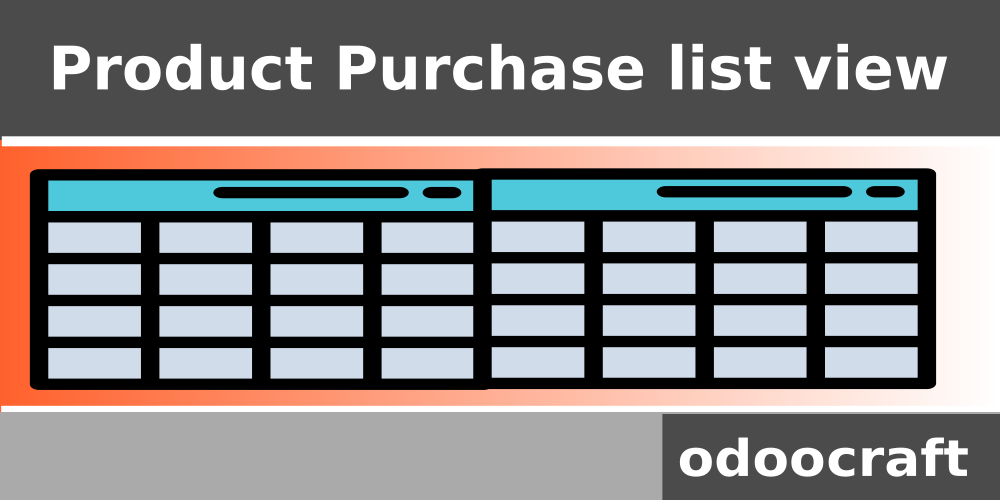
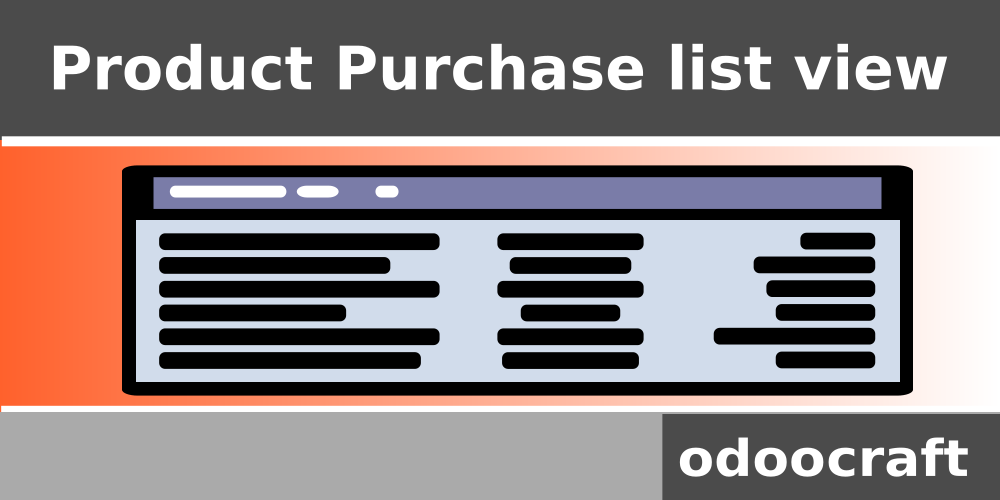
added module for vendors / partners

Changed region(s): [[0.031, 0.33, 0.961, 0.81]]

diff --git a/vendor_purchase_def_list/static/description/index.html b/vendor_purchase_def_list/static/description/index.html
@@ -1,10 +1,10 @@
 <section class="oe_container">
 	<div class="oe_row oe_spaced">
-		<h2 class="oe_slogan">Product list (tree) view in the purchase module</h2>
-		<h3 class="oe_slogan">Set list as a default view for product in the purchase module</h3>
+		<h2 class="oe_slogan">Vendor list (tree) view in the purchase module</h2>
+		<h3 class="oe_slogan">Set list as a default view for partner in the purchase module</h3>
 		<div class="oe_span12">
 			<div class="oe_demo oe_picture oe_screenshot">
-				<img src="product_purchase.png">
+				<img src="vendor_purchase.png">
 			</div>
 		</div>
 	</div>

diff --git a/vendor_purchase_def_list/__manifest__.py b/vendor_purchase_def_list/__manifest__.py
@@ -1,0 +1,24 @@
+# -*- coding: utf-8 -*-
+{
+    'name': "Vendor list (tree) view in the purchase module", 
+    'version': '12.0.0.99.14',
+    'category': 'Purchases',
+    'depends': ['purchase'],
+    'license': 'AGPL-3',
+    'summary': 'Set list (tree) as a default view for vendor in the Purchase module',
+    'description': """
+Changes default view of vendor to a list (tree) in the Purchase module
+========================================================================
+    """,
+    'installable': True,
+    'auto_install': False,
+    'author': "odoocraft.com",
+    
+    
+    'images': [
+        'images/main_screenshot.png',
+        ],
+    'data': [
+        'views/views.xml',
+    ],
+}
